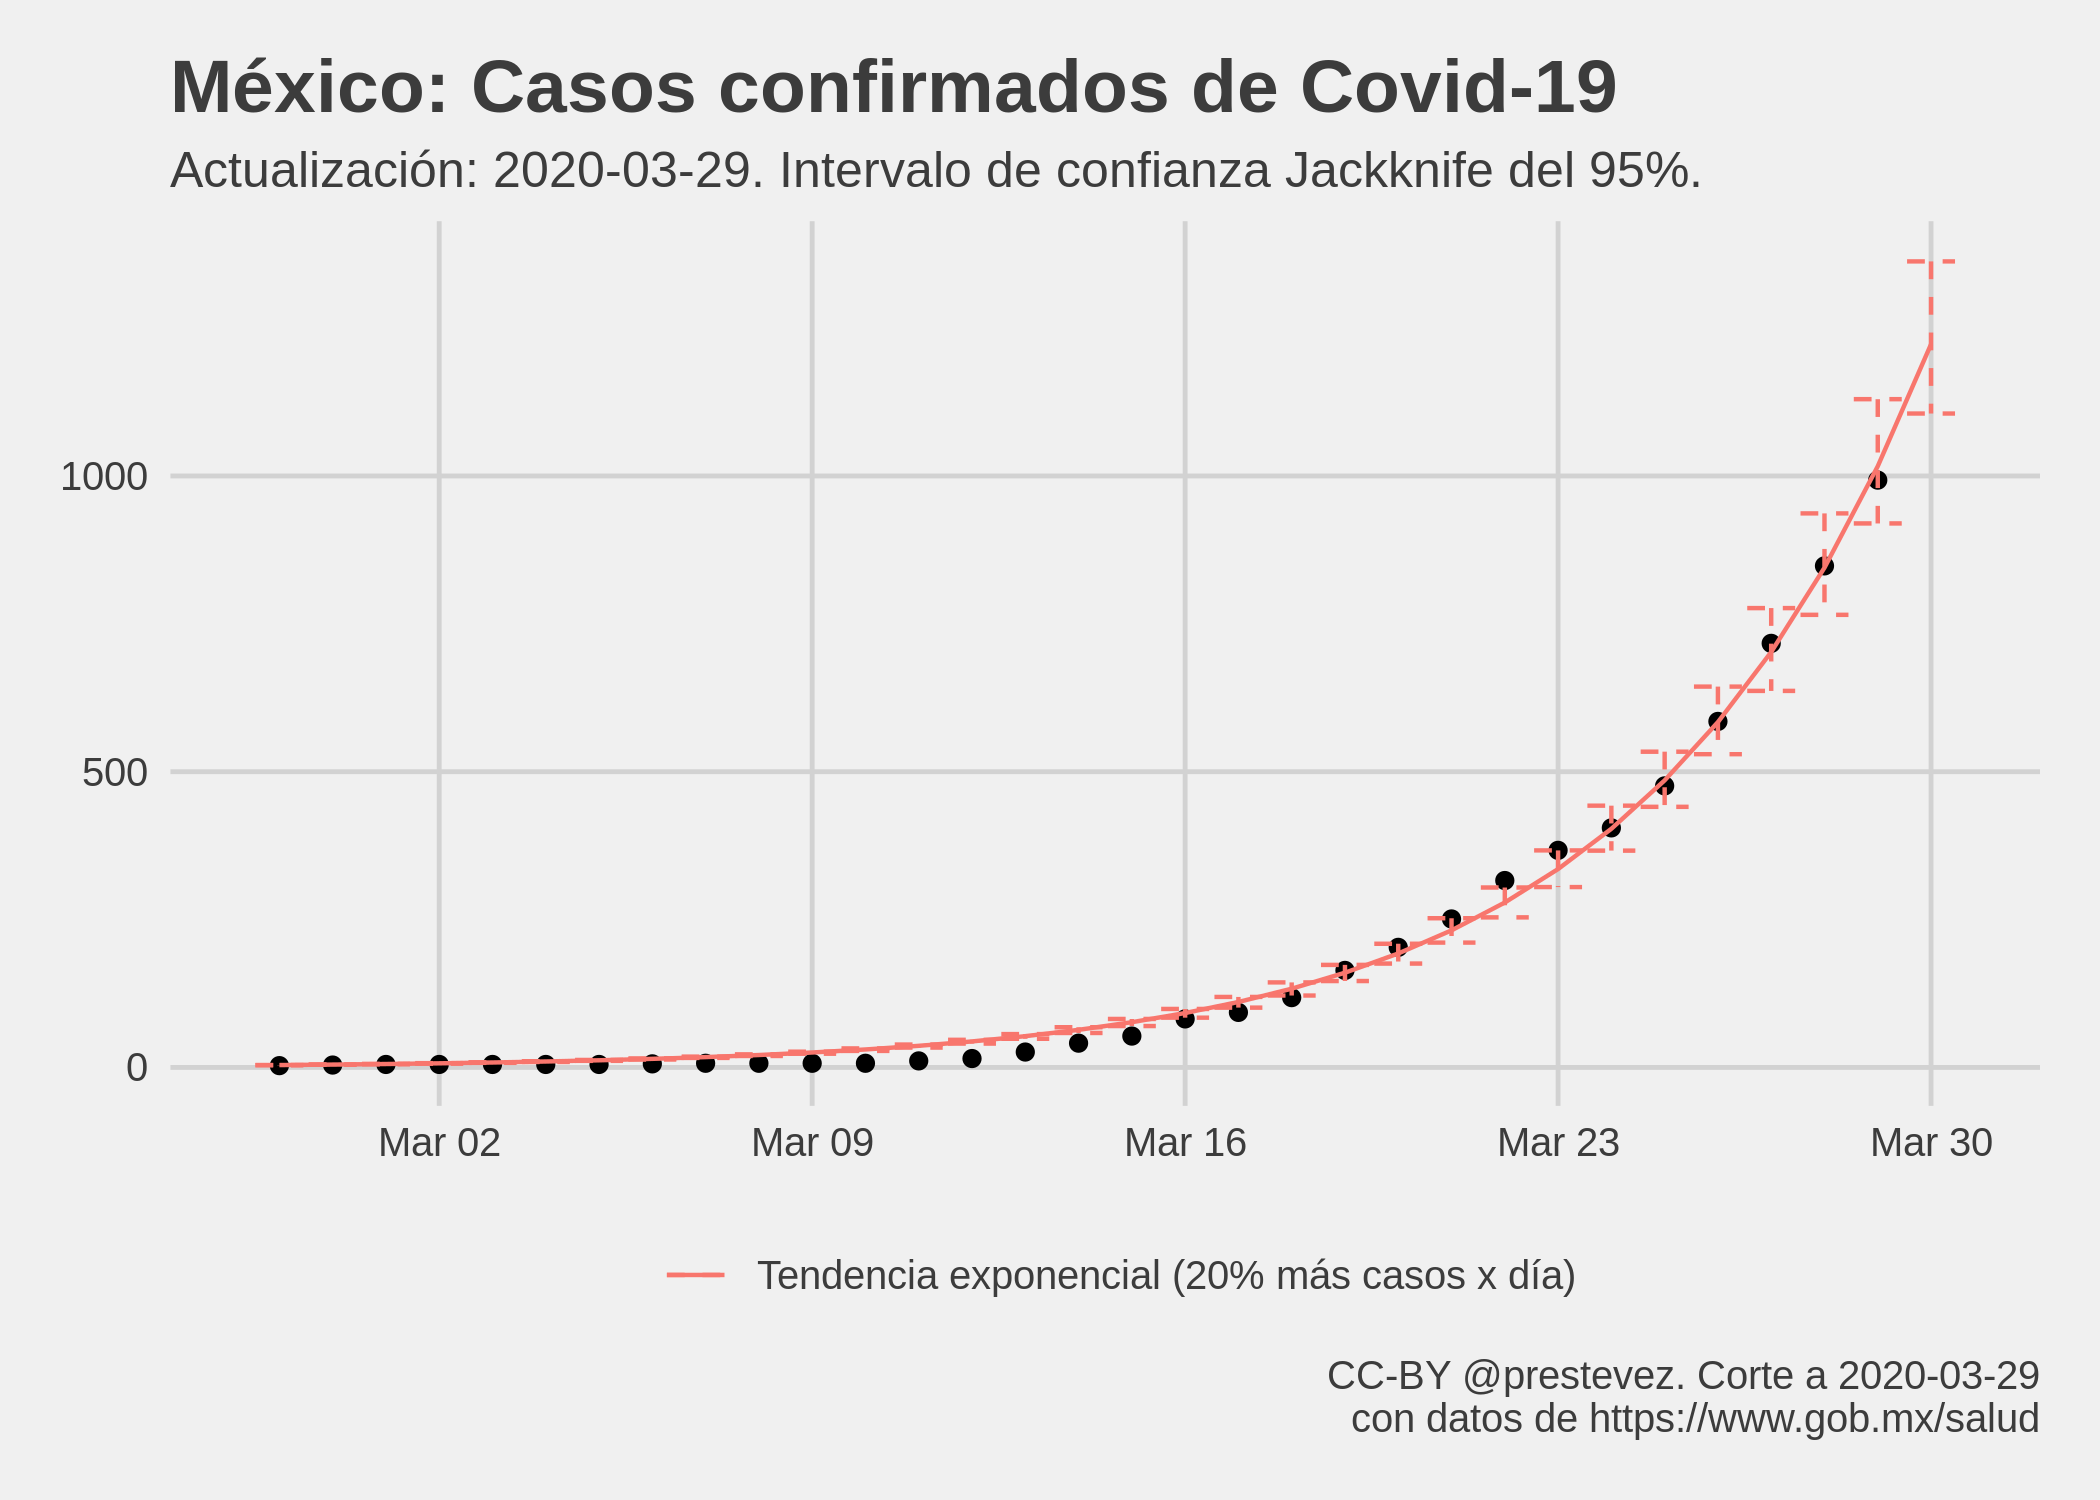
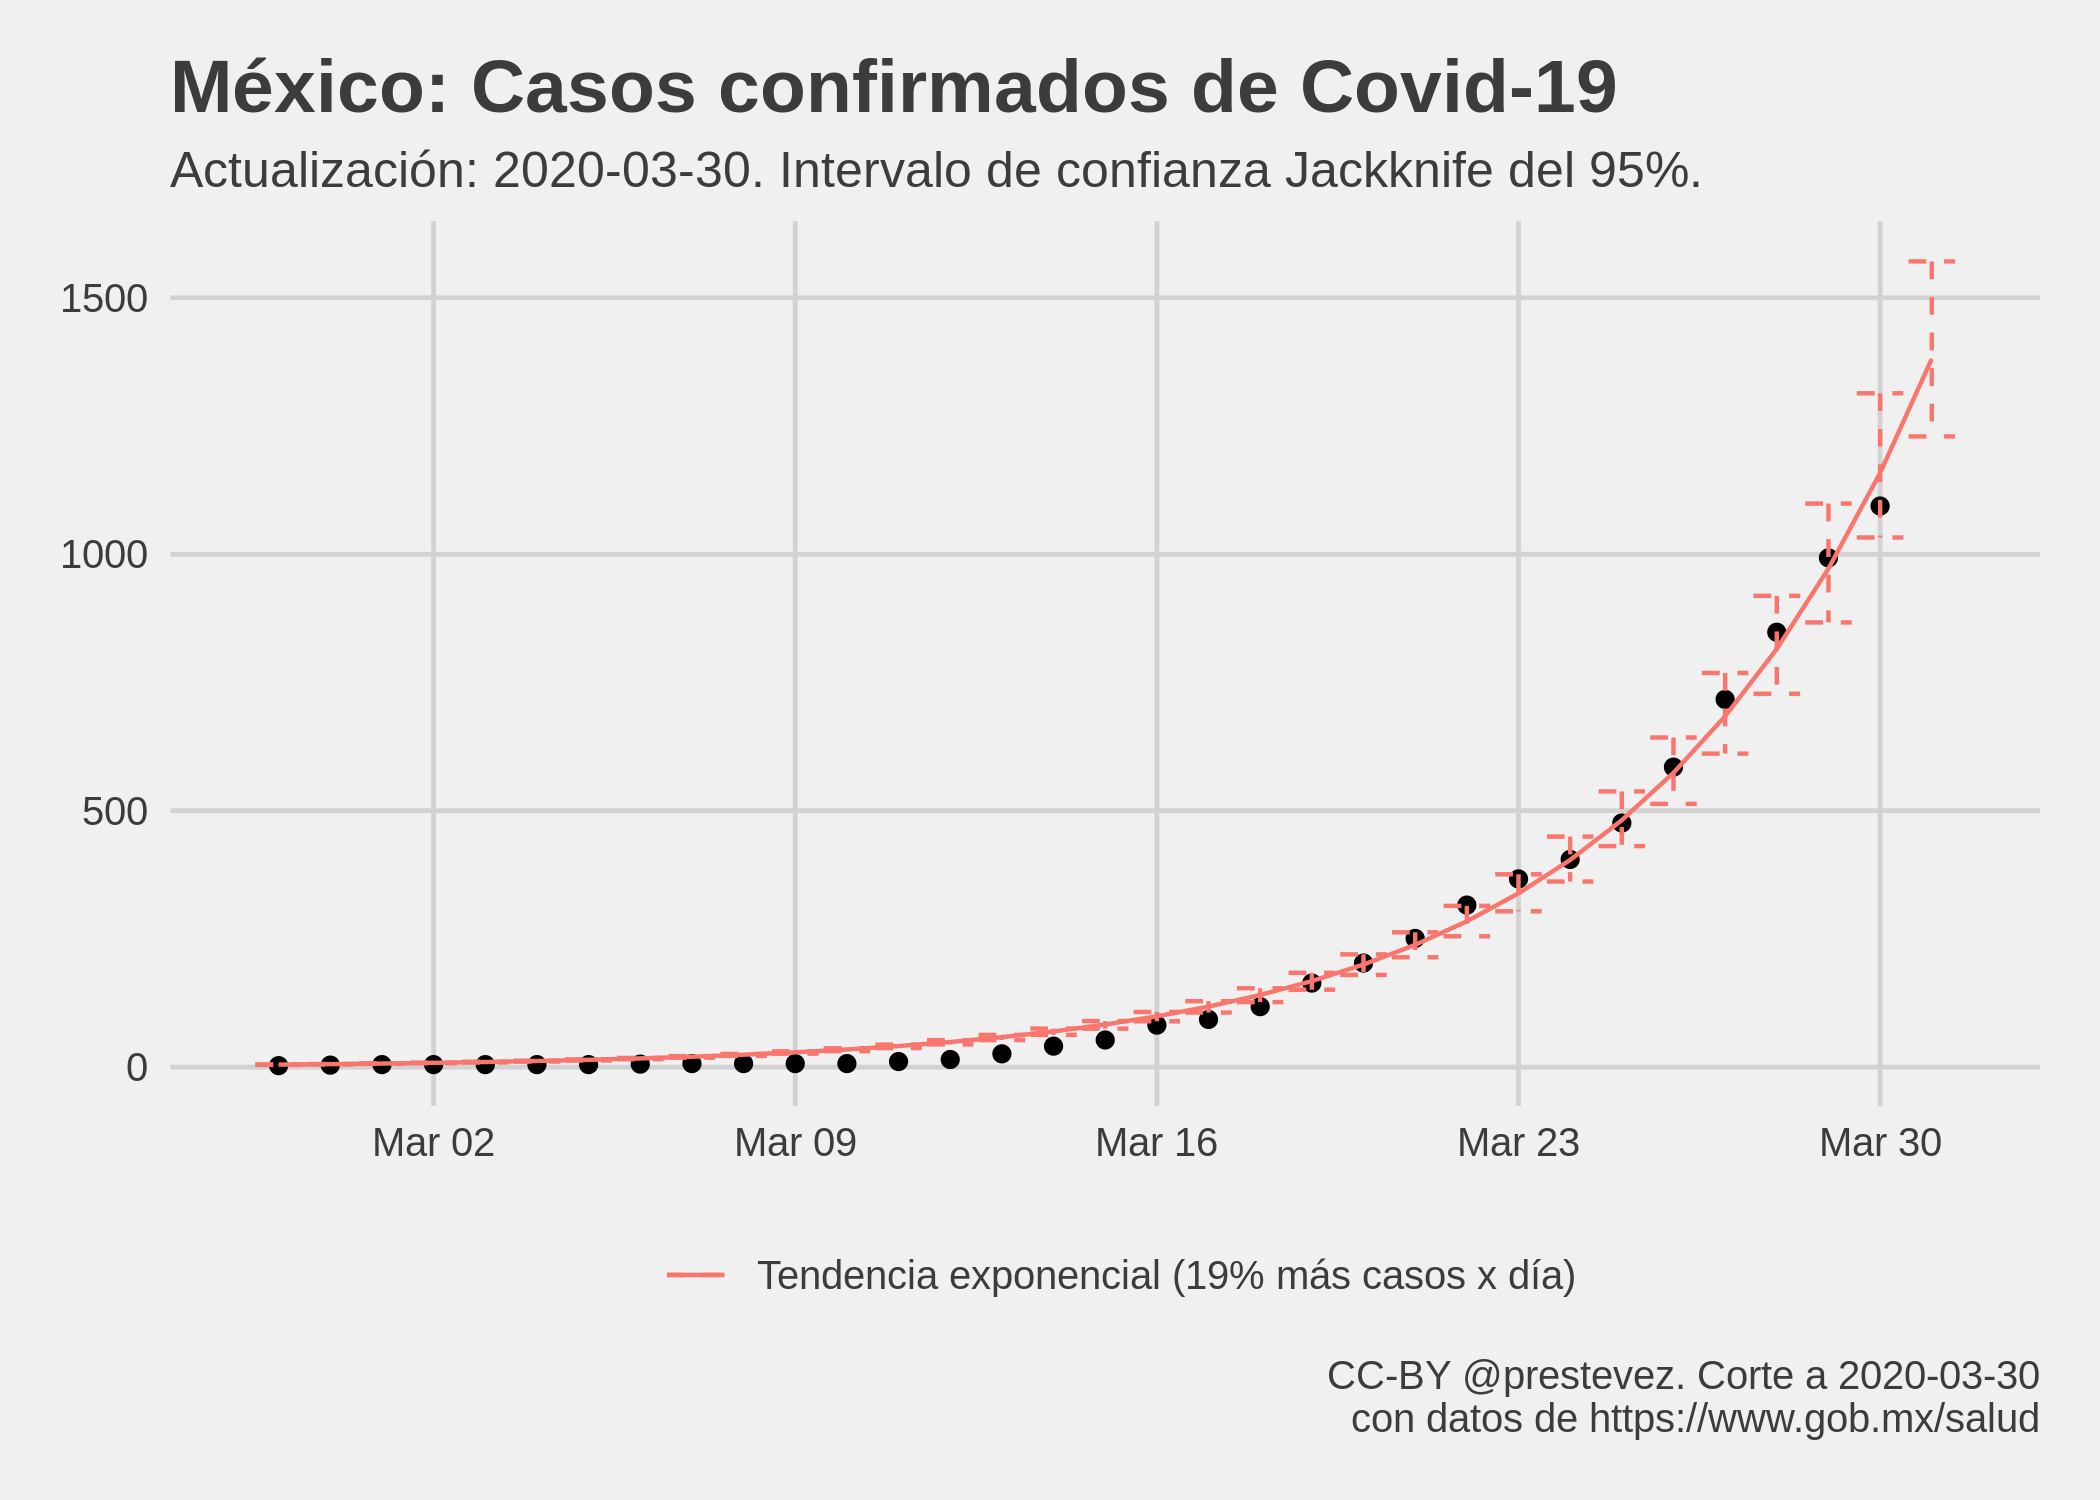
update 2020-03-30

diff --git a/README.md b/README.md
@@ -1,7 +1,7 @@
 Evolución de Covid-19 en México
 ================
 [Patricio R Estevez-Soto](https://twitter.com/prestevez).
-Actualizado: 2020-03-30 09:30:48 GMT
+Actualizado: 2020-03-31 06:52:50 GMT
 
 # Crecimiento de casos confirmados de Covid-19 en México
 
@@ -38,22 +38,22 @@ Parámetros del modelo predictivo:
     ## 
     ## Deviance Residuals: 
     ##     Min       1Q   Median       3Q      Max  
-    ## -28.932  -17.955   -7.050    1.314   37.185  
+    ## -64.552  -23.462   -6.305    1.456   32.849  
     ## 
     ## Coefficients:
     ##             Estimate Std. Error t value Pr(>|t|)    
-    ## (Intercept) 1.195559   0.103486   11.55 2.27e-12 ***
-    ## t           0.184791   0.003582   51.59  < 2e-16 ***
+    ## (Intercept) 1.436280   0.118357   12.13 4.22e-13 ***
+    ## t           0.175583   0.003977   44.15  < 2e-16 ***
     ## ---
     ## Signif. codes:  0 '***' 0.001 '**' 0.01 '*' 0.05 '.' 0.1 ' ' 1
     ## 
-    ## (Dispersion parameter for gaussian family taken to be 310.1451)
+    ## (Dispersion parameter for gaussian family taken to be 574.5023)
     ## 
-    ##     Null deviance: 2256493.9  on 30  degrees of freedom
-    ## Residual deviance:    8994.5  on 29  degrees of freedom
-    ## AIC: 269.76
+    ##     Null deviance: 3051566  on 31  degrees of freedom
+    ## Residual deviance:   17235  on 30  degrees of freedom
+    ## AIC: 298.06
     ## 
-    ## Number of Fisher Scoring iterations: 5
+    ## Number of Fisher Scoring iterations: 6
 
 # Estimación de errores Jackknife
 
@@ -88,8 +88,8 @@ Parámetros Jackknife del modelo predictivo de casos:
     ## # A tibble: 2 x 4
     ##   var         Estimate ci_low ci_high
     ##   <chr>          <dbl>  <dbl>   <dbl>
-    ## 1 (Intercept)    1.19   1.12    1.22 
-    ## 2 t              0.185  0.184   0.187
+    ## 1 (Intercept)    1.43   1.35    1.46 
+    ## 2 t              0.176  0.175   0.179
 
 # Modelo de casos nuevos
 
@@ -122,39 +122,39 @@ Parámetros del modelo predictivo de casos nuevos:
     ## 
     ## Deviance Residuals: 
     ##     Min       1Q   Median       3Q      Max  
-    ## -3.8308  -1.7042  -0.6686   1.2093   3.3786  
+    ## -5.7031  -1.9459  -0.2817   1.0256   3.3542  
     ## 
     ## Coefficients:
-    ##              Estimate Std. Error z value Pr(>|z|)    
-    ## (Intercept) -0.558873   0.164358   -3.40 0.000673 ***
-    ## t            0.183064   0.006172   29.66  < 2e-16 ***
+    ##             Estimate Std. Error z value Pr(>|z|)    
+    ## (Intercept) -0.23043    0.14872  -1.549    0.121    
+    ## t            0.16763    0.00546  30.703   <2e-16 ***
     ## ---
     ## Signif. codes:  0 '***' 0.001 '**' 0.01 '*' 0.05 '.' 0.1 ' ' 1
     ## 
     ## (Dispersion parameter for poisson family taken to be 1)
     ## 
-    ##     Null deviance: 1613.9  on 30  degrees of freedom
-    ## Residual deviance:  109.2  on 29  degrees of freedom
-    ## AIC: 225.43
+    ##     Null deviance: 1703.38  on 31  degrees of freedom
+    ## Residual deviance:  153.23  on 30  degrees of freedom
+    ## AIC: 275.92
     ## 
     ## Number of Fisher Scoring iterations: 5
 
     ## # A tibble: 2 x 4
     ##   var         Estimate ci_low ci_high
     ##   <chr>          <dbl>  <dbl>   <dbl>
-    ## 1 (Intercept)   -0.561 -0.689  -0.486
-    ## 2 t              0.183  0.180   0.188
+    ## 1 (Intercept)   -0.234 -0.392  -0.160
+    ## 2 t              0.168  0.165   0.174
 
 # Casos esperados mañana
 
 Mañana se espera que el **total acumulado de casos confirmados** de
-Covid-19 alcance **1223**, con un intervalo de confianza Jackknife del
-95% entre **1106** y **1363**, si la tendencia observada hasta hoy se
+Covid-19 alcance **1381**, con un intervalo de confianza Jackknife del
+95% entre **1230** y **1571**, si la tendencia observada hasta hoy se
 mantiene igual.
 
-Según el modelo de casos nuevos, mañana se esperan **200 casos
+Según el modelo de casos nuevos, mañana se esperan **201 casos
 confirmados nuevos**, con un intervalo de confianza Jackknife del 95%
-entre **162** y **252**, si la tendencia observada hasta hoy se mantiene
+entre **157** y **265**, si la tendencia observada hasta hoy se mantiene
 igual.
 
 Sin embargo, estas cifra muy probablemente estén equivocadas, pues el
@@ -170,23 +170,24 @@ esperaban hoy según el modelo del día anterior.
 
 Para el modelo del acumulado de casos:
 
-| Fecha      | Casos Totales Observados | Predicción |   Error |
-| :--------- | -----------------------: | ---------: | ------: |
-| 2020-03-15 |                       53 |      51.89 |    1.11 |
-| 2020-03-16 |                       82 |      73.72 |    8.28 |
-| 2020-03-17 |                       93 |     115.68 | \-22.68 |
-| 2020-03-18 |                      118 |     134.77 | \-16.77 |
-| 2020-03-19 |                      164 |     163.96 |    0.04 |
-| 2020-03-20 |                      203 |     218.34 | \-15.34 |
-| 2020-03-21 |                      251 |     273.56 | \-22.56 |
-| 2020-03-22 |                      316 |     335.79 | \-19.79 |
-| 2020-03-23 |                      367 |     415.43 | \-48.43 |
-| 2020-03-24 |                      405 |     487.84 | \-82.84 |
-| 2020-03-25 |                      476 |     545.18 | \-69.18 |
-| 2020-03-26 |                      585 |     620.12 | \-35.12 |
-| 2020-03-27 |                      717 |     730.57 | \-13.57 |
-| 2020-03-28 |                      848 |     876.82 | \-28.82 |
-| 2020-03-29 |                      993 |    1041.24 | \-48.24 |
+| Fecha      | Casos Totales Observados | Predicción |    Error |
+| :--------- | -----------------------: | ---------: | -------: |
+| 2020-03-15 |                       53 |      51.89 |     1.11 |
+| 2020-03-16 |                       82 |      73.72 |     8.28 |
+| 2020-03-17 |                       93 |     115.68 |  \-22.68 |
+| 2020-03-18 |                      118 |     134.77 |  \-16.77 |
+| 2020-03-19 |                      164 |     163.96 |     0.04 |
+| 2020-03-20 |                      203 |     218.34 |  \-15.34 |
+| 2020-03-21 |                      251 |     273.56 |  \-22.56 |
+| 2020-03-22 |                      316 |     335.79 |  \-19.79 |
+| 2020-03-23 |                      367 |     415.43 |  \-48.43 |
+| 2020-03-24 |                      405 |     487.84 |  \-82.84 |
+| 2020-03-25 |                      476 |     545.18 |  \-69.18 |
+| 2020-03-26 |                      585 |     620.12 |  \-35.12 |
+| 2020-03-27 |                      717 |     730.57 |  \-13.57 |
+| 2020-03-28 |                      848 |     876.82 |  \-28.82 |
+| 2020-03-29 |                      993 |    1041.24 |  \-48.24 |
+| 2020-03-30 |                     1094 |    1222.78 | \-128.78 |
 
 Intervalos de confianza JK
 
@@ -198,6 +199,7 @@ Intervalos de confianza JK
 | 2020-03-27 |           717            |    636-846     |       No       |
 | 2020-03-28 |           848            |    792-968     |       No       |
 | 2020-03-29 |           993            |    936-1166    |       No       |
+| 2020-03-30 |           1094           |   1106-1363    |       Sí       |
 
 Para el modelo de casos nuevos:
 
@@ -211,6 +213,7 @@ Para el modelo de casos nuevos:
 | 2020-03-27 |                     132 |     124.43 |    7.57 |
 | 2020-03-28 |                     131 |     154.15 | \-23.15 |
 | 2020-03-29 |                     145 |     176.99 | \-31.99 |
+| 2020-03-30 |                     101 |     200.17 | \-99.17 |
 
 Intervalos de confianza JK, casos nuevos.
 
@@ -222,6 +225,7 @@ Intervalos de confianza JK, casos nuevos.
 | 2020-03-27 |           132           |     97-165     |       No       |
 | 2020-03-28 |           131           |    121-194     |       No       |
 | 2020-03-29 |           145           |    141-225     |       No       |
+| 2020-03-30 |           101           |    162-252     |       Sí       |
 
 # Discusión
 
@@ -230,7 +234,7 @@ confirmados de Covid-19 es consistente con ejercicios [realizados en
 otros países](https://doi.org/10.1016/S0140-6736\(20\)30627-9).
 
 La tendencia exponencial del modelo sugiere que **el número de casos
-confirmados se duplica cada 3.75 días**. Este ritmo es más rápido que
+confirmados se duplica cada 3.95 días**. Este ritmo es más rápido que
 [el observado a nivel
 global](https://ourworldindata.org/coronavirus#growth-of-cases-how-long-did-it-take-for-the-number-of-confirmed-cases-to-double),
 pero es consistente con los ritmos de crecimiento observados durante las
